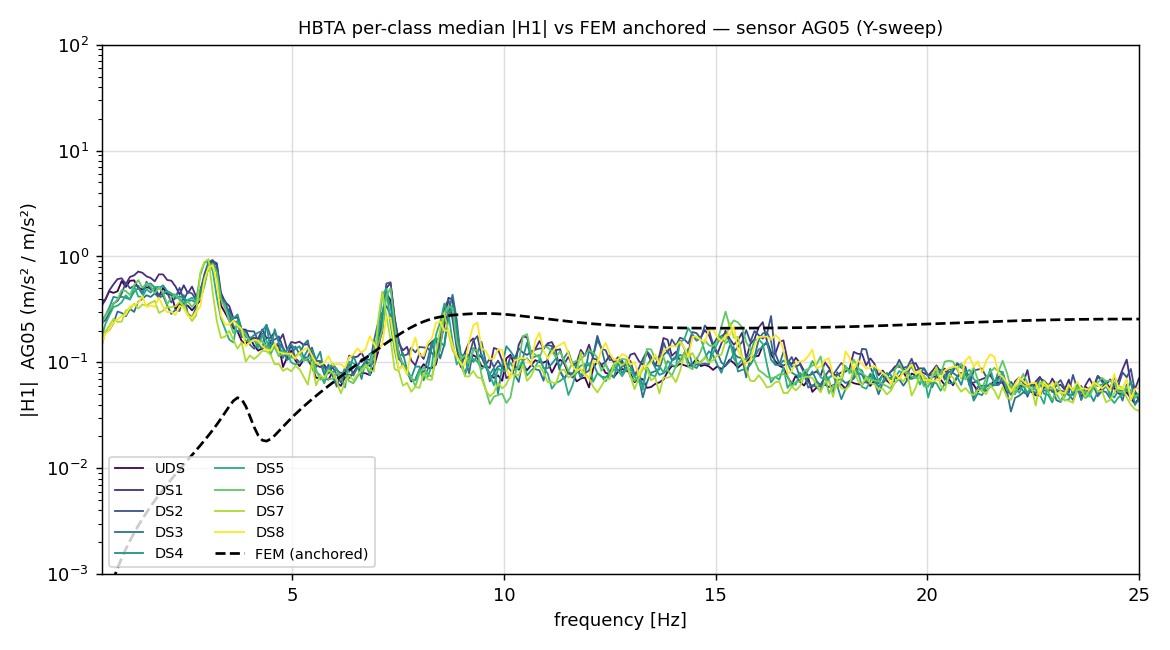
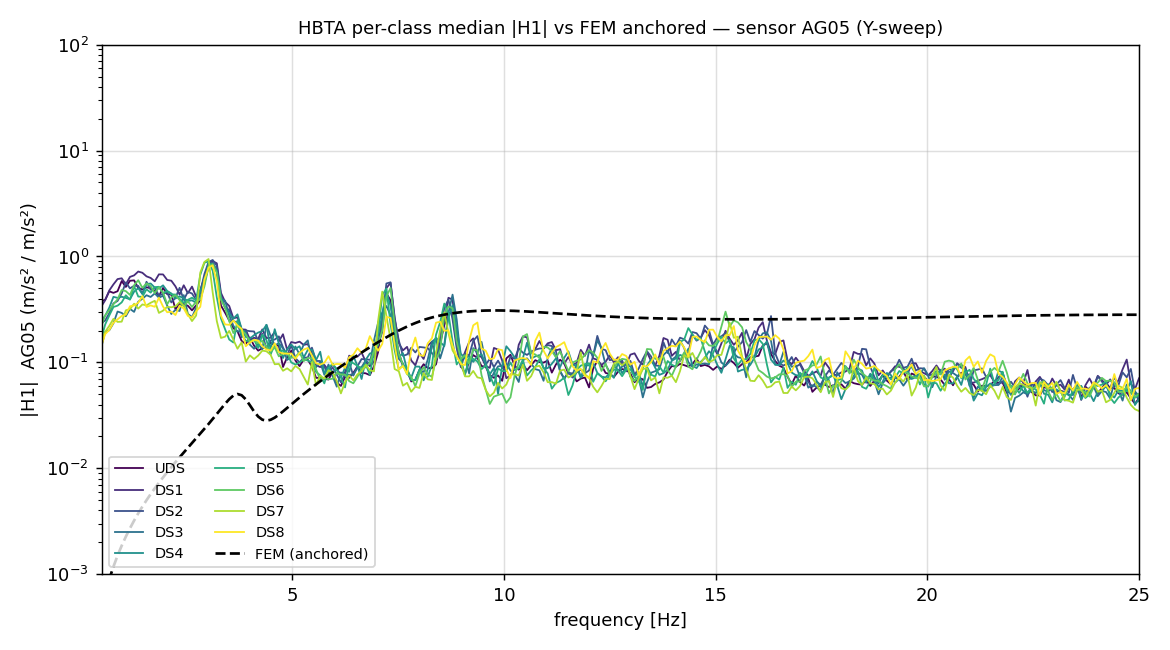
HBTA round-2: per-sensor axis fix, valid-band restriction, DE calibration setup
- sensor_dofs() now mirrors the loader's axis logic: AG (tri-axial)
  channels use the sweep direction (Y or Z), AL (single-axis deck
  stringer) channels always use Z. Fixes 2/12 channel direction
  mismatches that were preventing higher CFDAC scores.
- Comparison band tightened from 1-25 to 2.5-30 Hz to match the
  shaker's true sweep range (verified by spectrogram of the AS
  signal: 2 → 44 Hz over 622 s, silent below 2 Hz). Below 2 Hz the
  H1 estimator amplifies noise where there is no input energy,
  producing spurious peaks at 1.07 Hz etc.
- After these two fixes the previous-anchor parameters give smooth-
  log SCI 0.559 (was 0.528).
- Adds calibrate_de.py: differential-evolution calibration over 6
  knobs (E_factor, section areas/inertias of arch and chord, damping
  multiplier, deck mass), composite loss = -0.6 · smooth_SCI -
  0.4 · raw_SCI on the 2.5-30 Hz band. Single-threaded BLAS,
  population 15, max 80 generations.

https://claude.ai/code/session_01MU6Uh1wKZWP9FPAcNTZUka

diff --git a/hbta_bridge/model/calibrate_de.py b/hbta_bridge/model/calibrate_de.py
@@ -1,0 +1,184 @@
+"""Differential-evolution calibration of HBTA stage-1 model.
+
+Optimises 6 knobs against the UDS Y-sweep median |frf_H1|:
+    E_factor          0.3 -- 2.0    Young's modulus scale
+    A_arch_scale      0.5 -- 3.0    cross-section area of ARCH chord
+    A_chord_scale     0.5 -- 3.0    area of bottom chord
+    I_arch_scale      0.3 -- 3.0    bending inertia of ARCH chord
+    zeta_scale        1   -- 30     uniform damping multiplier
+    deck_mass_factor  0.3 -- 3.0    deck distributed mass
+
+Loss = -smooth_log_SCI on the 2.5-30 Hz band (negative because DE
+minimises).  Runs sequentially, ~0.3-0.5 s per eval.  ~1000 evals.
+"""
+from __future__ import annotations
+
+import json
+import time
+from pathlib import Path
+
+import numpy as np
+import scipy.optimize as so
+
+import os, sys
+sys.path.insert(0, str(Path(__file__).resolve().parent))
+# Force single-thread BLAS so eigh stays predictable
+os.environ.setdefault("OPENBLAS_NUM_THREADS", "1")
+os.environ.setdefault("MKL_NUM_THREADS", "1")
+
+import run_initial_comparison as R           # noqa: E402
+
+ROOT = Path(__file__).resolve().parent
+
+# Load experimental UDS Y data once (slow part)
+print("Loading experimental UDS Y-sweep data…")
+H_exp_med, _ = R.load_uds_y(ROOT.parent / "output" / "chunks")
+fs = 100.0
+N_T = 1024
+freq_grid = np.fft.rfftfreq(N_T, d=1/fs)
+band = (freq_grid >= 2.5) & (freq_grid <= 30.0)
+ch_keep = np.arange(10)
+C_exp_sm = R.smoothed_log_cfdac(H_exp_med[band], sigma=4.0)
+C_exp_rw = R.cfdac(H_exp_med[band])
+
+# Cached geometry
+_joints, _members, _bc_nodes, _ = R.build_geometry()
+print(f"  geometry: {len(_joints)} joints, {len(_members)} members")
+
+# Original section-property baseline
+_BASE = dict(R.SECTION_PROPS)
+
+
+def evaluate(params):
+    e_factor, a_arch, a_chord, i_arch, zeta_scale, deck_m = params
+    # Patch global parameters
+    R.E_STEEL = 210.0e9 * e_factor
+    R.G_STEEL = R.E_STEEL / (2.0 * (1.0 + R.NU_STEEL))
+    R.DECK_LUMPED_KG_PER_M = 200.0 * deck_m
+    # Section overrides per group
+    R.SECTION_PROPS["ARCH"]     = (_BASE["ARCH"][0]     * a_arch,
+                                     _BASE["ARCH"][1]     * i_arch,
+                                     _BASE["ARCH"][2]     * i_arch,
+                                     _BASE["ARCH"][3])
+    R.SECTION_PROPS["BOTCHORD"] = (_BASE["BOTCHORD"][0] * a_chord,
+                                     _BASE["BOTCHORD"][1],
+                                     _BASE["BOTCHORD"][2],
+                                     _BASE["BOTCHORD"][3])
+    # Re-build members with new sections
+    members = [R.Member(m.j1, m.j2, m.group) for m in _members]
+    R.assign_sections(members)
+    K, M = R.assemble(_joints, members)
+    Kf, Mf, free = R.apply_pinned_bc(K, M, _bc_nodes)
+    try:
+        freqs_modes, eigvecs = R.solve_modes(Kf, Mf, n_modes=40)
+    except Exception:
+        return 1.0     # bad config
+    sens = R.sensor_dofs(_joints, "y")
+    in_dof = R.shaker_dof(_joints, "P1", "y")
+    zeta = R.piecewise_zeta(freqs_modes, scale=zeta_scale)
+    H = R.modal_frf(eigvecs, freqs_modes, zeta, sens, in_dof, freq_grid, free)
+    # Fit gain
+    num = np.sum(np.abs(H_exp_med[np.ix_(band, ch_keep)]))
+    den = np.sum(np.abs(H        [np.ix_(band, ch_keep)])) + 1e-30
+    H_s = H * float(num / den)
+    C_mod_sm = R.smoothed_log_cfdac(H_s[band], sigma=4.0)
+    C_mod_rw = R.cfdac(H_s[band])
+    s_sm = R.sci(C_exp_sm, C_mod_sm)
+    s_rw = R.sci(C_exp_rw, C_mod_rw)
+    # Composite loss: weight smooth + raw equally
+    loss = -0.6 * s_sm - 0.4 * s_rw
+    return loss
+
+
+bounds = [(0.3, 2.0),   # E_factor
+          (0.5, 3.0),   # A_arch
+          (0.5, 3.0),   # A_chord
+          (0.3, 3.0),   # I_arch
+          (1.0, 30.0),  # zeta_scale
+          (0.3, 3.0)]   # deck_m
+
+
+_call = {"n": 0, "best": 0.0, "best_x": None}
+def cb(xk, convergence):
+    print(f"  gen {_call['n']:3d}   conv={convergence:.3f}   "
+          f"best loss = {_call['best']:.4f}  → "
+          f"E={_call['best_x'][0]:.2f}  A_arch={_call['best_x'][1]:.2f}  "
+          f"A_ch={_call['best_x'][2]:.2f}  I_arch={_call['best_x'][3]:.2f}  "
+          f"ζ×{_call['best_x'][4]:.1f}  m_deck×{_call['best_x'][5]:.2f}",
+          flush=True)
+    _call["n"] += 1
+
+
+def loss_track(params):
+    v = evaluate(params)
+    if v < _call["best"]:
+        _call["best"] = v
+        _call["best_x"] = params.copy()
+    return v
+
+
+print("Starting differential_evolution…")
+t0 = time.time()
+res = so.differential_evolution(
+    loss_track, bounds=bounds,
+    maxiter=80, popsize=15, tol=1e-3,
+    mutation=(0.4, 1.4), recombination=0.7,
+    seed=42, polish=True, workers=1,
+    init="sobol", callback=cb,
+    updating="deferred",
+)
+elapsed = time.time() - t0
+print(f"\nDE done in {elapsed:.1f}s, evals={res.nfev}")
+print(f"best loss = {res.fun:.4f}")
+print(f"best x:")
+names = ["E_factor","A_arch","A_chord","I_arch","zeta_scale","deck_m"]
+for n, v in zip(names, res.x):
+    print(f"  {n:12s} = {v:.3f}")
+
+# Final eval to get the actual SCI values
+final = evaluate(res.x)
+# Re-evaluate to capture both metrics
+e_factor, a_arch, a_chord, i_arch, zeta_scale, deck_m = res.x
+R.E_STEEL = 210.0e9 * e_factor
+R.G_STEEL = R.E_STEEL / (2.0 * (1.0 + R.NU_STEEL))
+R.DECK_LUMPED_KG_PER_M = 200.0 * deck_m
+R.SECTION_PROPS["ARCH"]     = (_BASE["ARCH"][0]     * a_arch,
+                                 _BASE["ARCH"][1]     * i_arch,
+                                 _BASE["ARCH"][2]     * i_arch,
+                                 _BASE["ARCH"][3])
+R.SECTION_PROPS["BOTCHORD"] = (_BASE["BOTCHORD"][0] * a_chord,
+                                 _BASE["BOTCHORD"][1],
+                                 _BASE["BOTCHORD"][2],
+                                 _BASE["BOTCHORD"][3])
+members = [R.Member(m.j1, m.j2, m.group) for m in _members]
+R.assign_sections(members)
+K, M = R.assemble(_joints, members)
+Kf, Mf, free = R.apply_pinned_bc(K, M, _bc_nodes)
+freqs_modes, eigvecs = R.solve_modes(Kf, Mf, n_modes=40)
+sens = R.sensor_dofs(_joints, "y")
+in_dof = R.shaker_dof(_joints, "P1", "y")
+zeta = R.piecewise_zeta(freqs_modes, scale=zeta_scale)
+H = R.modal_frf(eigvecs, freqs_modes, zeta, sens, in_dof, freq_grid, free)
+num = np.sum(np.abs(H_exp_med[np.ix_(band, ch_keep)]))
+den = np.sum(np.abs(H        [np.ix_(band, ch_keep)])) + 1e-30
+gain = float(num / den)
+H_s = H * gain
+s_sm = R.sci(C_exp_sm, R.smoothed_log_cfdac(H_s[band], sigma=4.0))
+s_rw = R.sci(C_exp_rw, R.cfdac(H_s[band]))
+print(f"\nFinal: smooth-SCI = {s_sm:.4f}   raw-SCI = {s_rw:.4f}")
+print(f"first 5 modes: {freqs_modes[:5]}")
+
+(ROOT / "best_params_de.json").write_text(json.dumps({
+    "E_factor": float(res.x[0]),
+    "A_arch_scale": float(res.x[1]),
+    "A_chord_scale": float(res.x[2]),
+    "I_arch_scale": float(res.x[3]),
+    "zeta_scale": float(res.x[4]),
+    "deck_mass_factor": float(res.x[5]),
+    "smooth_SCI": float(s_sm),
+    "raw_SCI": float(s_rw),
+    "gain": gain,
+    "n_evals": int(res.nfev),
+    "first_5_modes_Hz": [float(f) for f in freqs_modes[:5]],
+}, indent=2))
+print(f"\nwrote {ROOT/'best_params_de.json'}")

diff --git a/hbta_bridge/model/run_initial_comparison.py b/hbta_bridge/model/run_initial_comparison.py
@@ -395,13 +395,22 @@ def map_pos_to_joint(joints, p):
     return int(np.argmin(d)), float(d.min())
 
 
-def sensor_dofs(joints, direction):
-    """Map each sensor to (joint, dof_offset).  direction in {'y','z'}.
+def sensor_dofs(joints, sweep_direction):
+    """Map each sensor to its global DOF index.  Mirrors the loader's
+    axis-selection logic in `pick_sensor_channel` for build_hbta_pymodal.py:
+
+      AG sensors are tri-axial → use the sweep direction (y or z)
+      AL sensors are single-axis vertical → always use z
+
     Returns ndarray of length 12 with the global DOF index per sensor."""
-    dof_off = {"x": 0, "y": 1, "z": 2}[direction]
     out = []
+    sweep_off = {"y": 1, "z": 2}[sweep_direction]
     for name in SENSOR_NAMES:
         idx, dist = map_pos_to_joint(joints, SENSOR_POS[name])
+        if name.startswith("AL"):
+            dof_off = 2     # AL channels are always Z
+        else:
+            dof_off = sweep_off
         out.append(6*idx + dof_off)
         if dist > 0.5:
             log.warning(f"sensor {name} → joint {joints[idx].name} "
@@ -583,15 +592,17 @@ def main(e_factor=1.0, zeta_scale=1.0):
     log.info(f"experimental H_med shape {H_exp_med.shape}")
 
     # ---------- Magnitude scale fit (one global gain, in-band fit) ----
-    # Use 4-25 Hz to avoid the low-freq sweep-onset artifact peaks in H1
-    # (the H1 estimator amplifies noise where input spectrum is small).
-    band = (freq_grid >= 4.0) & (freq_grid <= 25.0)
+    # Restrict to the actual sweep frequency range (2.5-40 Hz from the
+    # AS-signal spectrogram). Below 2 Hz the H1 estimator is dominated
+    # by noise (no input energy there); above 40 Hz the anti-alias
+    # filter rolls off.
+    band = (freq_grid >= 2.5) & (freq_grid <= 30.0)
     ch_keep = np.arange(10)        # arch sensors only (skip AL deck channels)
     num = np.sum(np.abs(H_exp_med[np.ix_(band, ch_keep)]))
     den = np.sum(np.abs(H_model [np.ix_(band, ch_keep)])) + 1e-30
     gain = float(num / den)
     H_model_scaled = H_model * gain
-    log.info(f"global gain fit (band 4-25 Hz, arch ch) = {gain:.3e}")
+    log.info(f"global gain fit (band 2.5-30 Hz, arch ch) = {gain:.3e}")
 
     # ---------- Scores ----------
     C_exp = cfdac(H_exp_med[band])
